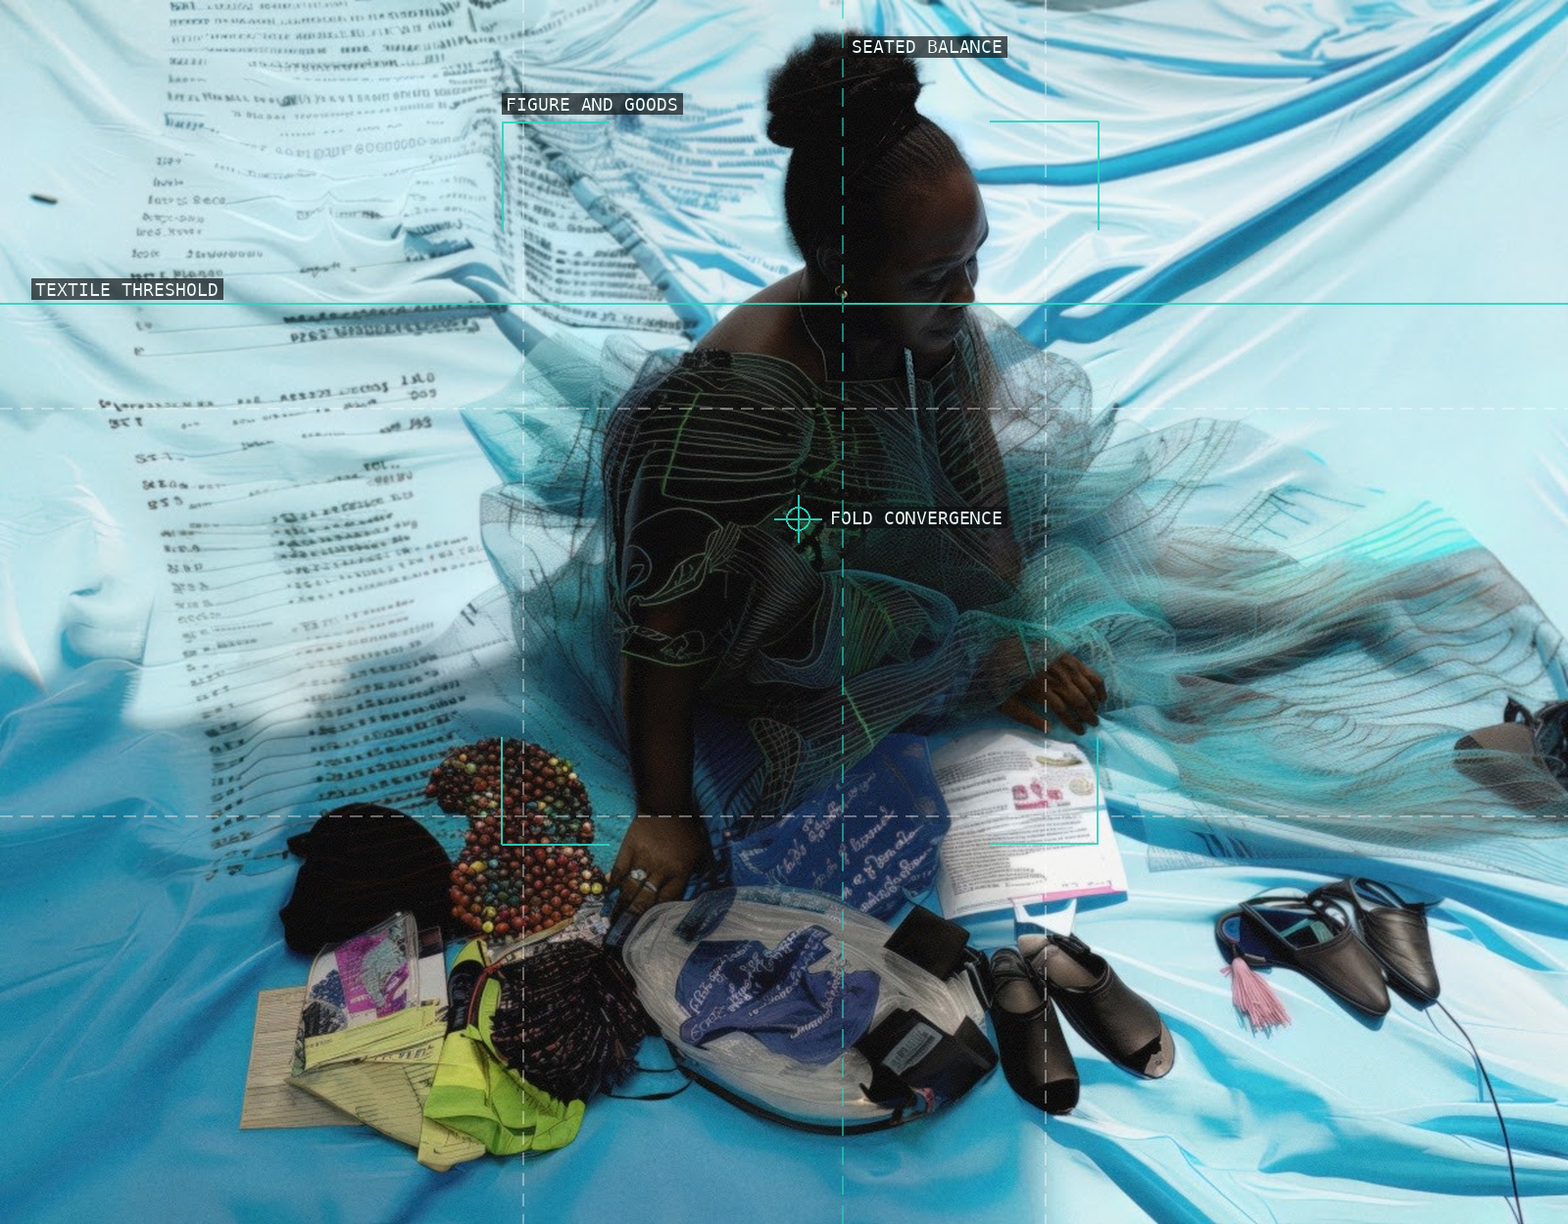
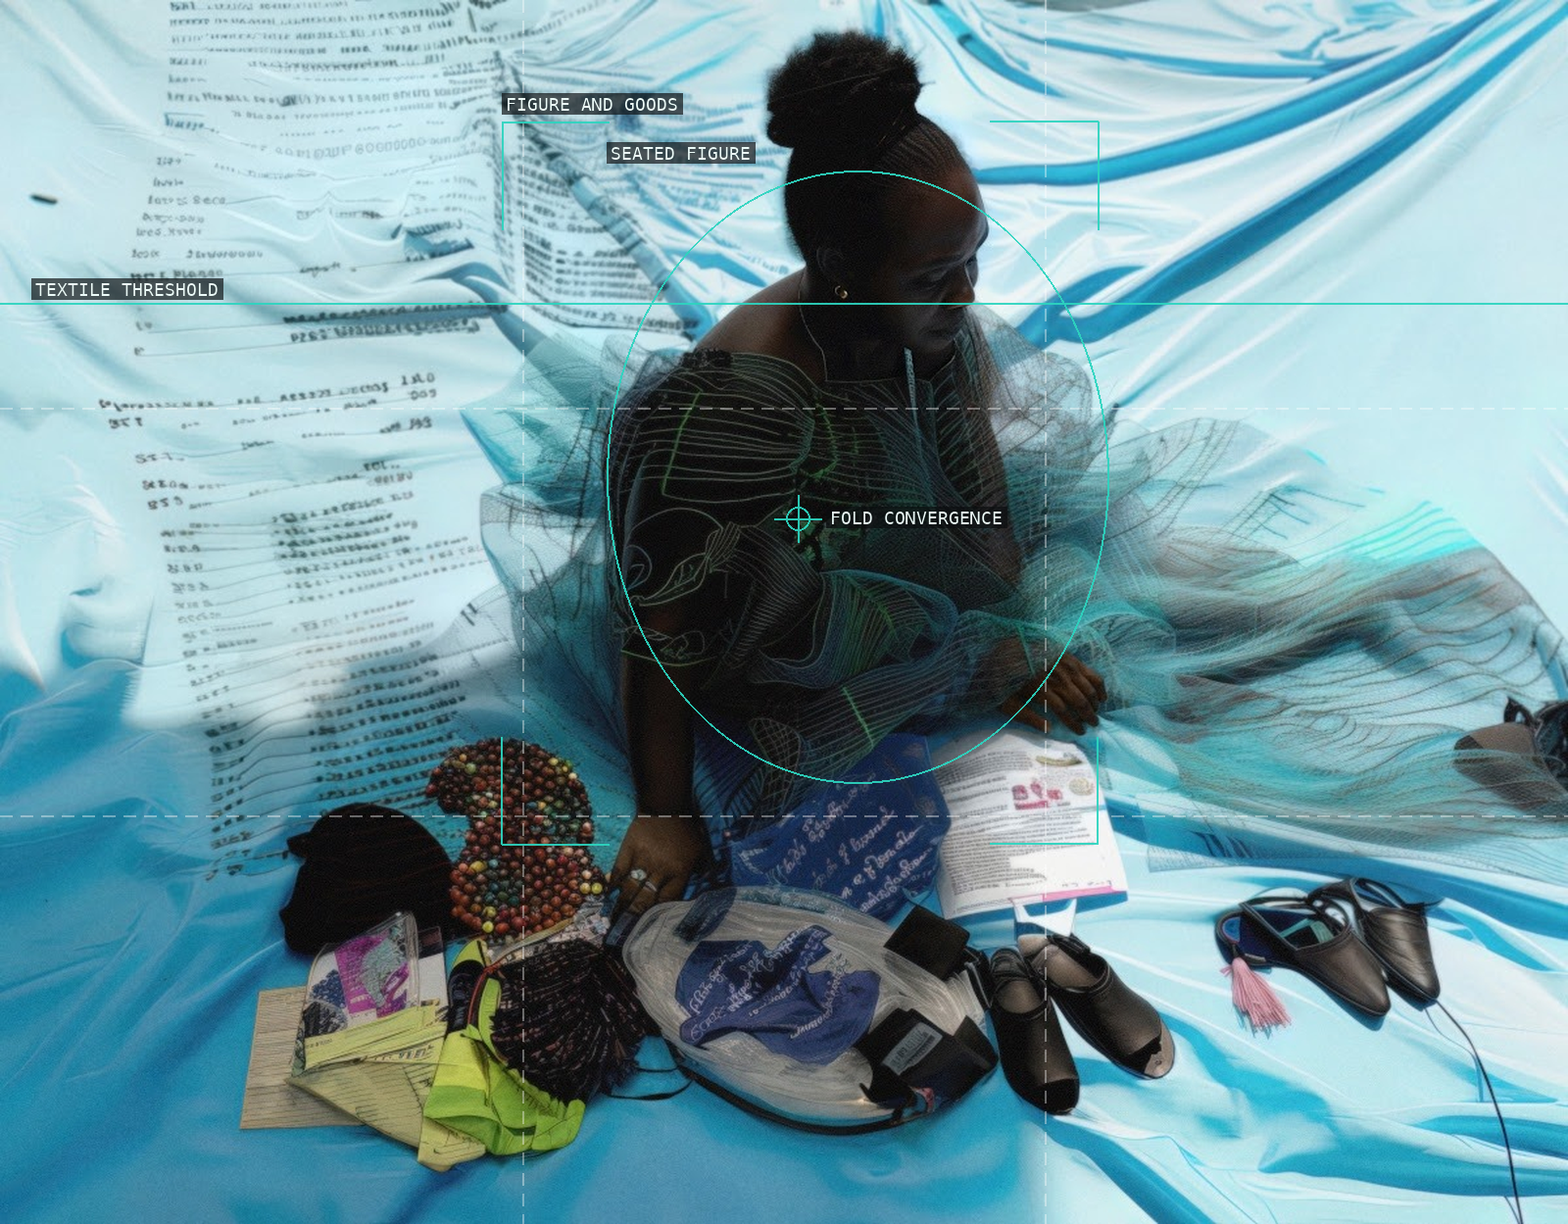
resolve critique: charlie-engman

Changed region(s): [[0.375, 0.0937, 0.5, 0.1561], [0.5312, 0.0312, 0.6562, 0.0624]]

diff --git a/content/charlie-engman/proofs/index.html b/content/charlie-engman/proofs/index.html
@@ -21,18 +21,54 @@
 <h1><span class="c">/* </span>charlie-engman - proofs<span class="c"> */</span></h1>
 <p class="sub">12 plates. Deterministic overlays rendered by the composition-analysis skill.</p>
 <div class="grid">
-<figure><img src="01-available-material.png" alt="01-available-material" loading="lazy"><figcaption><span class="id">01-available-material</span><br>Transport frames overlap around a carrier in a crowded market.</figcaption></figure>
-<figure><img src="02-algorithmic-altruism.png" alt="02-algorithmic-altruism" loading="lazy"><figcaption><span class="id">02-algorithmic-altruism</span><br>A reflective foil interrupts the boat's forward waterbound motion.</figcaption></figure>
-<figure><img src="03-extended-producer-responsibility.png" alt="03-extended-producer-responsibility" loading="lazy"><figcaption><span class="id">03-extended-producer-responsibility</span><br>Textile, writing, figure, and goods form one shallow distributed field.</figcaption></figure>
-<figure><img src="04-kantamanto-registry.png" alt="04-kantamanto-registry" loading="lazy"><figcaption><span class="id">04-kantamanto-registry</span><br>A white zigzag cuts through the market's many competing figures.</figcaption></figure>
-<figure><img src="05-projection-mapping.png" alt="05-projection-mapping" loading="lazy"><figcaption><span class="id">05-projection-mapping</span><br>Cloth, water reflection, and a plastic container establish a provisional enclosure.</figcaption></figure>
-<figure><img src="06-mom-on-the-ground-2.png" alt="06-mom-on-the-ground-2" loading="lazy"><figcaption><span class="id">06-mom-on-the-ground-2</span><br>An almost empty studio frame intensifies the figure's curled pose and gaze.</figcaption></figure>
-<figure><img src="07-mom-01.png" alt="07-mom-01" loading="lazy"><figcaption><span class="id">07-mom-01</span><br>A billboard fragment is inserted into a factory façade and street-wire grid.</figcaption></figure>
-<figure><img src="08-mom-02.png" alt="08-mom-02" loading="lazy"><figcaption><span class="id">08-mom-02</span><br>A reclining billboard figure becomes an architectural inset against glass.</figcaption></figure>
-<figure><img src="09-mom-03.png" alt="09-mom-03" loading="lazy"><figcaption><span class="id">09-mom-03</span><br>A double-sided billboard forces two portraits into one façade view.</figcaption></figure>
-<figure><img src="10-mom-04.png" alt="10-mom-04" loading="lazy"><figcaption><span class="id">10-mom-04</span><br>A roadside recession contains the billboard's curled body in a second frame.</figcaption></figure>
-<figure><img src="11-mom-05.png" alt="11-mom-05" loading="lazy"><figcaption><span class="id">11-mom-05</span><br>A standing figure is isolated by a rounded sign edge and factory grid.</figcaption></figure>
-<figure><img src="12-mom-with-plum.png" alt="12-mom-with-plum" loading="lazy"><figcaption><span class="id">12-mom-with-plum</span><br>A small plum holds the focal weight against the body-scale arm curve.</figcaption></figure>
+<figure>
+  <img src="01-available-material.png" alt="01-available-material" loading="lazy">
+  <figcaption><span class="id">01-available-material</span><br>The cropped foreground bundle and the windshield make the carrier&#x27;s body read through overlapping transport frames.</figcaption>
+</figure>
+<figure>
+  <img src="02-algorithmic-altruism.png" alt="02-algorithmic-altruism" loading="lazy">
+  <figcaption><span class="id">02-algorithmic-altruism</span><br>A reflective interruption at left bends the boat&#x27;s forward movement back into the frame.</figcaption>
+</figure>
+<figure>
+  <img src="03-extended-producer-responsibility.png" alt="03-extended-producer-responsibility" loading="lazy">
+  <figcaption><span class="id">03-extended-producer-responsibility</span><br>Writing, cloth, and merchandise turn a seated portrait into a shallow, distributed field.</figcaption>
+</figure>
+<figure>
+  <img src="04-kantamanto-registry.png" alt="04-kantamanto-registry" loading="lazy">
+  <figcaption><span class="id">04-kantamanto-registry</span><br>A brilliant zigzag interrupts the crowded market and routes attention across several figures.</figcaption>
+</figure>
+<figure>
+  <img src="05-projection-mapping.png" alt="05-projection-mapping" loading="lazy">
+  <figcaption><span class="id">05-projection-mapping</span><br>A raised arm and floating container make the waterline a physical boundary rather than empty foreground.</figcaption>
+</figure>
+<figure>
+  <img src="06-mom-on-the-ground-2.png" alt="06-mom-on-the-ground-2" loading="lazy">
+  <figcaption><span class="id">06-mom-on-the-ground-2</span><br>The near-empty studio field makes the curled figure and sideways gaze unusually forceful.</figcaption>
+</figure>
+<figure>
+  <img src="07-mom-01.png" alt="07-mom-01" loading="lazy">
+  <figcaption><span class="id">07-mom-01</span><br>The billboard inserts a tight bodily fragment into a much larger industrial street grid.</figcaption>
+</figure>
+<figure>
+  <img src="08-mom-02.png" alt="08-mom-02" loading="lazy">
+  <figcaption><span class="id">08-mom-02</span><br>The large billboard turns a reclining figure into an architectural inset against repeating glass.</figcaption>
+</figure>
+<figure>
+  <img src="09-mom-03.png" alt="09-mom-03" loading="lazy">
+  <figcaption><span class="id">09-mom-03</span><br>A narrow double-sided sign splits the façade while its two portraits refuse one stable viewing position.</figcaption>
+</figure>
+<figure>
+  <img src="10-mom-04.png" alt="10-mom-04" loading="lazy">
+  <figcaption><span class="id">10-mom-04</span><br>The wide roadside view makes the curled body a contained image within a deep urban recession.</figcaption>
+</figure>
+<figure>
+  <img src="11-mom-05.png" alt="11-mom-05" loading="lazy">
+  <figcaption><span class="id">11-mom-05</span><br>The isolated standing figure is held between the billboard&#x27;s rounded border and the factory&#x27;s dense window grid.</figcaption>
+</figure>
+<figure>
+  <img src="12-mom-with-plum.png" alt="12-mom-with-plum" loading="lazy">
+  <figcaption><span class="id">12-mom-with-plum</span><br>A single small plum becomes a weighted focal point against the body-scale curve of the arm.</figcaption>
+</figure>
 </div>
 </body>
 </html>

diff --git a/content/charlie-engman/sources.md b/content/charlie-engman/sources.md
@@ -9,62 +9,62 @@ Twelve real photographs were acquired to `raw/charlie-engman/` and opened succes
 1. **Available Material** (2024) — `01-available-material.jpg` (1200 × 1200)
    - Why it matters: an AI-mediated, square-format image that makes the viewer test how bodies, objects, and shallow pictorial space cohere.
    - Source: [ICP / Google Arts & Culture item](https://artsandculture.google.com/asset/available-material-charlie-engman/zgElecfYnm_w6w).
-   - Use basis: **fair-use**. Credit: Charlie Engman; rights notice: “Copyright Charlie Engman.” The complete frame is necessary to discuss the image’s unstable spatial relationships; this criticism/scholarship use is a web-sized copy, links to and credits the institutional record, and does not replace the original or a licensed reproduction.
+   - Use basis: **fair-use**. Factor 1 favors this transformative criticism and scholarship; factor 2 recognizes that this is a creative generated image, which weighs against fair use; factor 3 favors the complete frame because its unstable spatial relationships are the teaching subject; and factor 4 favors the web-sized, credited, linked copy because it does not replace the original or a licensed reproduction. Credit: Charlie Engman; displayed rights notice: “Copyright Charlie Engman.”
 
 2. **Algorithmic Altruism** (2024) — `02-algorithmic-altruism.jpg` (1200 × 1200)
    - Why it matters: its centralized, artificial-looking encounter foregrounds the uneasy balance between pictorial symmetry and bodily incongruity.
    - Source: [ICP / Google Arts & Culture item](https://artsandculture.google.com/asset/algorithmic-altruism-charlie-engman/OQEJS_w_a9DfmA).
-   - Use basis: **fair-use**. Credit: Charlie Engman; rights notice: “Copyright Charlie Engman.” The whole composition is required for transformative visual analysis of the centered encounter; the small web copy is credited and linked, used for criticism and scholarship, and is not a market substitute.
+   - Use basis: **fair-use**. Factor 1 favors transformative visual criticism and scholarship; factor 2 recognizes the work’s creative generated-image character, weighing against fair use; factor 3 favors the complete centered composition needed for the analysis; and factor 4 favors the small, credited, linked web copy because it is not a market substitute. Credit: Charlie Engman; displayed rights notice: “Copyright Charlie Engman.”
 
 3. **Extended Producer Responsibility** (2024) — `03-extended-producer-responsibility.jpg` (1200 × 937)
    - Why it matters: a broad horizontal field lets the chapter examine how a staged scene distributes visual responsibility between figure, material, and setting.
    - Source: [ICP / Google Arts & Culture item](https://artsandculture.google.com/asset/extended-producer-responsibility-charlie-engman/GAH_KUicV6L_wA).
-   - Use basis: **fair-use**. Credit: Charlie Engman; rights notice: “Copyright Charlie Engman.” Full-frame access is needed to teach the work’s lateral organization; this is a credited, linked, web-sized copy for criticism/scholarship and cannot replace the original or licensed image.
+   - Use basis: **fair-use**. Factor 1 favors criticism and scholarship; factor 2 recognizes the creative generated-image character, weighing against fair use; factor 3 favors full-frame access because the lateral organization is the lesson; and factor 4 favors the credited, linked, web-sized copy because it cannot replace the original or a licensed image. Credit: Charlie Engman; displayed rights notice: “Copyright Charlie Engman.”
 
 4. **Kantamanto Registry** (2024) — `04-kantamanto-registry.jpg` (1200 × 830)
    - Why it matters: the image gives a concrete case for analyzing distributed attention, circulation, and an AI system imagined through physical goods.
    - Source: [ICP / Google Arts & Culture item](https://artsandculture.google.com/asset/kantamanto-registry-charlie-engman/KwHwFPCjchAPpw).
-   - Use basis: **fair-use**. Credit: Charlie Engman; rights notice: “Copyright Charlie Engman.” The complete frame is pedagogically necessary to read the networked arrangement; this credited, linked web copy is limited to transformative criticism/scholarship and does not substitute for the work or a licensed reproduction.
+   - Use basis: **fair-use**. Factor 1 favors transformative criticism and scholarship; factor 2 recognizes the work’s creative generated-image character, weighing against fair use; factor 3 favors the complete frame because the networked arrangement is the teaching subject; and factor 4 favors the credited, linked web copy because it does not substitute for the work or a licensed reproduction. Credit: Charlie Engman; displayed rights notice: “Copyright Charlie Engman.”
 
 5. **Projection Mapping** (2024) — `05-projection-mapping.jpg` (1200 × 1200)
    - Why it matters: its square frame makes projected future and present location operate as one layered, speculative scene.
    - Source: [ICP / Google Arts & Culture item](https://artsandculture.google.com/asset/projection-mapping-charlie-engman/dQGoNO8tsDGLJQ).
-   - Use basis: **fair-use**. Credit: Charlie Engman; rights notice: “Copyright Charlie Engman.” The un-cropped image is needed to analyze the relation between projection and site; this web-sized, credited, linked criticism/scholarship use does not replace the original or a licensed reproduction.
+   - Use basis: **fair-use**. Factor 1 favors criticism and scholarship; factor 2 recognizes the work’s creative generated-image character, weighing against fair use; factor 3 favors the un-cropped image because the relation between projection and site is the lesson; and factor 4 favors the web-sized, credited, linked copy because it does not replace the original or a licensed reproduction. Credit: Charlie Engman; displayed rights notice: “Copyright Charlie Engman.”
 
 6. **Mom on the Ground 2** (shown 2018) — `06-mom-on-the-ground-2.jpg` (640 × 426)
    - Why it matters: a low, horizontal view turns a familiar family subject into a constructed, slightly theatrical figure-ground problem.
    - Source: [CONTACT Photography Festival exhibition record](https://contactphoto.com/2018/public-installation/mom-2).
-   - Use basis: **fair-use**. Credit: Charlie Engman, *Mom on the Ground 2*; CONTACT presents the work as part of *Mom*. The complete available frame is needed to teach its ground/figure staging; the 640px institutional display copy is credited and linked, used transformatively for criticism/scholarship, and does not replace an artist print, book, or licensed reproduction.
+   - Use basis: **fair-use**. Factor 1 favors transformative criticism and scholarship; factor 2 recognizes the underlying creative photograph, weighing against fair use; factor 3 favors the complete available frame because its ground/figure staging is the lesson; and factor 4 favors the credited, linked 640px institutional display copy because it does not replace an artist print, book, or licensed reproduction. Credit: Charlie Engman, *Mom on the Ground 2*; CONTACT displays the artist and title but no explicit individual copyright notice.
 
 7. **Mom** (shown 2018, CONTACT asset `66be5cf7`) — `07-mom-01.jpg` (435 × 640)
    - Why it matters: the vertical format concentrates gesture and costume into a deliberately unstable portrait hierarchy.
    - Source: [CONTACT Photography Festival exhibition record](https://contactphoto.com/2018/public-installation/mom-2).
-   - Use basis: **fair-use**. Credit: Charlie Engman, *Mom*; CONTACT identifies the work and artist. Its entire vertical frame is necessary for compositional analysis; this credited, linked, web-sized display copy supports criticism/scholarship and is not a substitute for the original or licensed reproduction.
+   - Use basis: **fair-use**. Factor 1 favors criticism and scholarship; factor 2 recognizes the underlying creative photograph, weighing against fair use; factor 3 favors the entire vertical frame because its compositional hierarchy is the lesson; and factor 4 favors the credited, linked web-sized display copy because it is not a substitute for the original or licensed reproduction. Credit: Charlie Engman, *Mom*; CONTACT displays the artist and series context but no explicit individual copyright notice.
 
 8. **Mom** (shown 2018, CONTACT asset `7276c273`) — `08-mom-02.jpg` (640 × 426)
    - Why it matters: the broad frame exposes the set as a constructed arena, making background and prop active compositional agents.
    - Source: [CONTACT Photography Festival exhibition record](https://contactphoto.com/2018/public-installation/mom-2).
-   - Use basis: **fair-use**. Credit: Charlie Engman, *Mom*; CONTACT identifies the work and artist. The complete frame is required to discuss set construction; this linked, credited, web-sized copy is for transformative criticism/scholarship and does not replace the work or a licensed reproduction.
+   - Use basis: **fair-use**. Factor 1 favors transformative criticism and scholarship; factor 2 recognizes the underlying creative photograph, weighing against fair use; factor 3 favors the complete frame because set construction is the teaching subject; and factor 4 favors the linked, credited web-sized copy because it does not replace the work or a licensed reproduction. Credit: Charlie Engman, *Mom*; CONTACT displays the artist and series context but no explicit individual copyright notice.
 
 9. **Mom** (shown 2018, CONTACT asset `96210cba`) — `09-mom-03.jpg` (640 × 423)
    - Why it matters: this frame supports a close reading of how fashion-pose conventions are interrupted by awkward physical staging.
    - Source: [CONTACT Photography Festival exhibition record](https://contactphoto.com/2018/public-installation/mom-2).
-   - Use basis: **fair-use**. Credit: Charlie Engman, *Mom*; CONTACT identifies the work and artist. Full-frame use is essential to analyze pose against setting; the credited, linked, web-sized institutional display copy is used only for criticism/scholarship and is not a substitute.
+   - Use basis: **fair-use**. Factor 1 favors criticism and scholarship; factor 2 recognizes the underlying creative photograph, weighing against fair use; factor 3 favors full-frame use because pose against setting is the teaching subject; and factor 4 favors the credited, linked web-sized institutional display copy because it is not a substitute. Credit: Charlie Engman, *Mom*; CONTACT displays the artist and series context but no explicit individual copyright notice.
 
 10. **Mom** (shown 2018, CONTACT asset `a7a1cba8`) — `10-mom-04.jpg` (640 × 456)
     - Why it matters: the image’s off-balance subject placement demonstrates Engman’s use of vacancy and peripheral detail to deny a settled portrait reading.
     - Source: [CONTACT Photography Festival exhibition record](https://contactphoto.com/2018/public-installation/mom-2).
-    - Use basis: **fair-use**. Credit: Charlie Engman, *Mom*; CONTACT identifies the work and artist. The complete composition is needed for this analysis; the credited and linked 640px web copy is transformative criticism/scholarship, not a replacement for the original or a licensed reproduction.
+   - Use basis: **fair-use**. Factor 1 favors transformative criticism and scholarship; factor 2 recognizes the underlying creative photograph, weighing against fair use; factor 3 favors the complete composition because its use of vacancy and peripheral detail is the lesson; and factor 4 favors the credited, linked 640px web copy because it is not a replacement for the original or a licensed reproduction. Credit: Charlie Engman, *Mom*; CONTACT displays the artist and series context but no explicit individual copyright notice.
 
 11. **Mom** (shown 2018, CONTACT asset `eb6763e1`) — `11-mom-05.jpg` (640 × 484)
     - Why it matters: it provides another distinct use of costuming and environment to make a portrait feel simultaneously domestic, editorial, and staged.
     - Source: [CONTACT Photography Festival exhibition record](https://contactphoto.com/2018/public-installation/mom-2).
-    - Use basis: **fair-use**. Credit: Charlie Engman, *Mom*; CONTACT identifies the work and artist. The whole frame is necessary to analyze the constructed portrait; this credited, linked, limited web copy serves criticism/scholarship and does not substitute for the original or a licensed reproduction.
+   - Use basis: **fair-use**. Factor 1 favors criticism and scholarship; factor 2 recognizes the underlying creative photograph, weighing against fair use; factor 3 favors the whole frame because the constructed portrait is the teaching subject; and factor 4 favors the credited, linked, limited web copy because it does not substitute for the original or a licensed reproduction. Credit: Charlie Engman, *Mom*; CONTACT displays the artist and series context but no explicit individual copyright notice.
 
 12. **Mom with Plum** (shown 2018) — `12-mom-with-plum.jpg` (426 × 640)
     - Why it matters: the portrait uses a small prop and vertical compression to make the maternal figure alternately posed, comic, and sculptural.
     - Source: [CONTACT Photography Festival exhibition record](https://contactphoto.com/2018/public-installation/mom-2).
-    - Use basis: **fair-use**. Credit: Charlie Engman, *Mom with Plum*; CONTACT identifies the work and artist. The full vertical frame is required for composition teaching; the credited and linked web-sized display copy is a transformative criticism/scholarship use, not a replacement for an artist print, book, or licensed reproduction.
+   - Use basis: **fair-use**. Factor 1 favors transformative criticism and scholarship; factor 2 recognizes the underlying creative photograph, weighing against fair use; factor 3 favors the full vertical frame because its compressed portrait structure is the lesson; and factor 4 favors the credited, linked web-sized display copy because it is not a replacement for an artist print, book, or licensed reproduction. Credit: Charlie Engman, *Mom with Plum*; CONTACT displays the artist and title but no explicit individual copyright notice.
 
 ## Source investigation notes
 

diff --git a/content/charlie-engman/critique.md b/content/charlie-engman/critique.md
@@ -1,4 +1,4 @@
-verdict: revise
+verdict: resolved
 
 ## Critique round — 2026-07-27
 
@@ -32,3 +32,12 @@ Re-verified prior critique rounds: 2026-07-27 (the complete critique history). B
 
 - `10-mom-04`'s `BILLBOARD PORTRAIT` bracket is slightly inset at the top/edge but remains recognizably on the rounded sign and is within the approximate 2% endpoint margin; it does not block approval.
 - The prior fixes for `06-mom-on-the-ground-2` and `11-mom-05` remain in place: the arm contour and corrected billboard frame each trace the labelled feature. No settled finding is reopened.
+
+## Builder resolution — 2026-07-27
+
+1. `03-extended-producer-responsibility`: replaced the unsupported `SEATED BALANCE` symmetry axis with a `SEATED FIGURE` ellipse that follows the figure's visible body mass. The chapter now refers to that oval contour rather than a mirrored balance. The regenerated proof is visually clean and scores 100/100.
+2. `05-projection-mapping`: removed the unsupported canopy line and convergence marker. The new overlay traces the visible arm, container, and waterline; the caption and body text now make only those visible claims. The regenerated proof is visually clean and scores 100/100.
+3. `09-mom-03`: redrew `DOUBLE-SIDED BILLBOARD` to the sign itself (`x: 0.440`, `y: 0.300`, `w: 0.145`, `h: 0.390`) rather than the surrounding factory façade. The regenerated proof is visually clean and scores 100/100.
+4. `sources.md`: added an explicit factor-2 assessment to every image-level fair-use rationale. The CONTACT entries now distinguish displayed artist/title or series context from the absence of an explicit individual copyright notice.
+
+Re-verified prior critique rounds: 2026-07-27 initial round (`06-mom-on-the-ground-2`, `11-mom-05`) and 2026-07-27 current round (`03-extended-producer-responsibility`, `05-projection-mapping`, `09-mom-03`, and fair-use documentation). All twelve overlays score 100/100; the earlier arm contour and billboard frame remain visually aligned; chapter copies are byte-identical; and `scripts/check.sh` passed.
